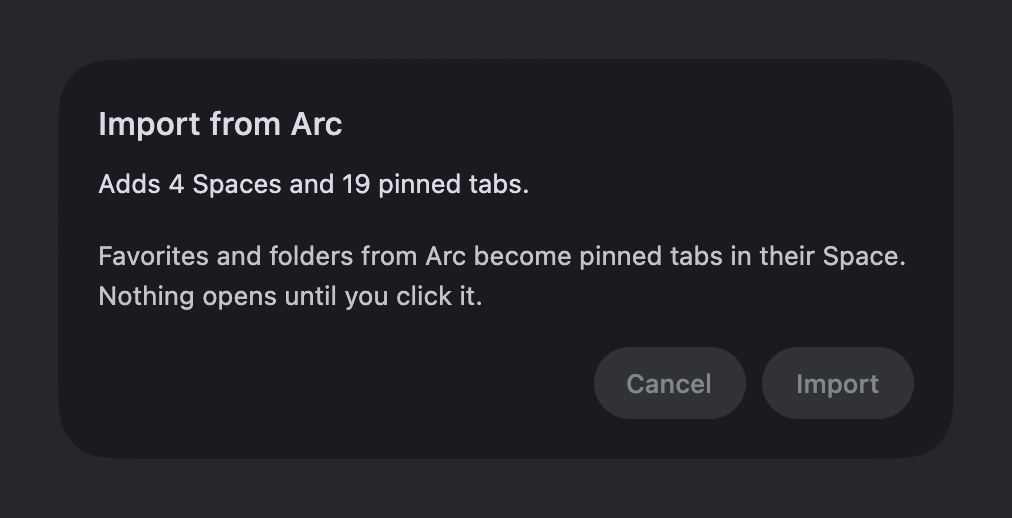
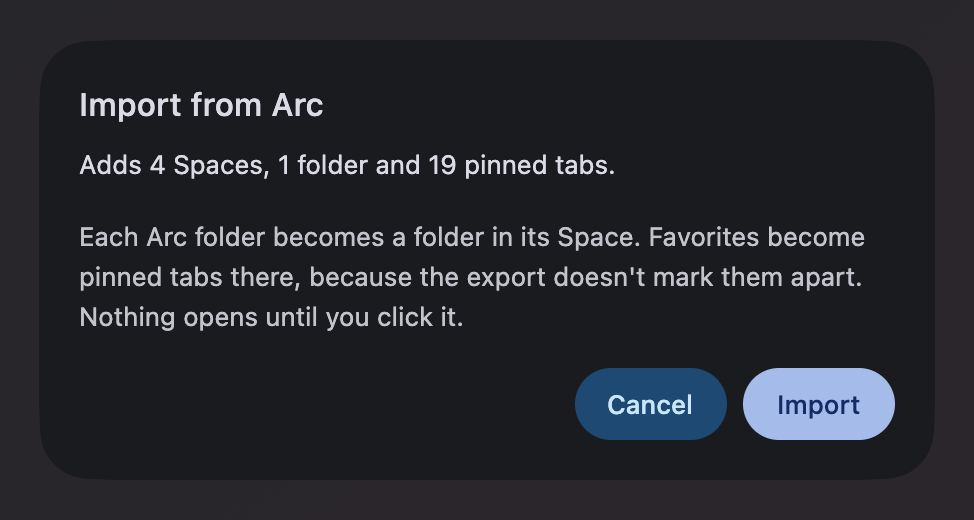
Say Arc folders come over, in the agents post, homepage and download page

Changed region(s): [[0.0616, 0.4324, 0.8932, 0.6486], [0.0616, 0.1853, 0.6468, 0.3707], [0.5852, 0.6795, 0.924, 0.8649]]

diff --git a/site/index.template.html b/site/index.template.html
@@ -501,7 +501,7 @@
           </li>
           <li>
             <h3>Next, for alpha</h3>
-            <p>Split view, Little Arc, Arc folders, ad and tracker blocking on by default, and onboarding.</p>
+            <p>Split view, Little Arc, ad and tracker blocking on by default, and onboarding.</p>
           </li>
           <li>
             <h3>After alpha</h3>
@@ -560,9 +560,9 @@
       <li>Command bar <kbd>Cmd+L</kbd> and Arc's shortcuts</li>
       <li>Hide the sidebar with <kbd>Cmd+S</kbd>, peek it from the window edge</li>
       <li>AI agents browse in their own Agent Space, after you allow them</li>
-      <li>Import Spaces and pinned tabs from an Arc export</li>
+      <li>Import Spaces, folders and pinned tabs from an Arc export</li>
     </ul>
-    <p class="works-later">Not yet: split view, Little Arc, Arc folders, ad blocking.</p>
+    <p class="works-later">Not yet: split view, Little Arc, ad blocking.</p>
     <div class="works-actions"><!--works-download--><a href="https://github.com/bitbonsai/myarc#try-it">Full list on GitHub →</a></div>
   </dialog>
   <dialog id="alpha-checklist" class="works alpha" aria-labelledby="alpha-title">

diff --git a/site/download.py b/site/download.py
@@ -25,12 +25,13 @@ WORKS = [
     'Shortcuts: Cmd+S hides the sidebar, Cmd+Shift+T reopens a closed tab, Cmd+Shift+C copies the address and shows a Copied Current URL toast, Cmd+Shift+N opens a private window and Ctrl+Cmd+N a blank one.',
     'Cmd+, opens a native Settings window. General shows the default-browser banner and Advanced links to the full Chromium settings. Profiles, Links and Shortcuts are not available yet.',
     'Quitting with Cmd+Q needs no confirmation by default, with a setting to turn the warning on.',
-    'Importing an Arc export from Settings > Advanced > Import from Arc. A preview shows what it will add, then each Space arrives with its links as pinned tabs, in Arc\'s order. Importing the same file again adds nothing.',
+    'Importing an Arc export from Settings > Advanced > Import from Arc. A preview shows what it will add, then each Space arrives with its folders and pinned tabs, in Arc\'s order. Importing the same file again adds nothing.',
+    'Folders for a Space\'s pinned tabs. Create, rename and delete them from the right-click menu, and open or close them. Moving a tab into a folder is menu-only for now.',
     'Agents can drive tabs in the Agent Space through the bundled myarc CLI and MCP server. It is off by default. Turn it on in Settings > Advanced, and myArc asks before each new agent connects.',
 ]
 MISSING = [
-    'Arc folders and Favorites in an import. The export does not mark them, so they arrive as pinned tabs.',
-    'Cmd+D to pin a tab (Cmd+D still bookmarks), folders, Auto Archive, the Archive and drag-to-pin.',
+    'Arc Favorites in an import. The export does not mark them, so they arrive as pinned tabs.',
+    'Cmd+D to pin a tab (Cmd+D still bookmarks), nested folders, Auto Archive, the Archive and drag-to-pin.',
     'Peek, Split View and Little Arc. The Peek routing rule exists, but there is no overlay.',
     'Boosts, the Library, download progress in the sidebar and the Mini Player.',
     'The animated onboarding.',

diff --git a/site/posts/agents-use-myarc/index.md b/site/posts/agents-use-myarc/index.md
@@ -65,13 +65,13 @@ Now a pin without an icon asks its own site for one in the background and keeps 
 
 That import is the part I've been waiting for. I've used Arc since 2023, and I'd rather not rebuild those Spaces by hand.
 
-Arc can export your Spaces to a file, under `Settings > Advanced > Export Data`. In myArc, `Settings > Advanced > Import from Arc…` reads that file and shows what it will add before it writes anything, along with the line number of anything it couldn't read. Each Space comes over with its links as pinned tabs, in Arc's order. Import the same file twice and the second time adds nothing.
+Arc can export your Spaces to a file, under `Settings > Advanced > Export Data`. In myArc, `Settings > Advanced > Import from Arc…` reads that file and shows what it will add before it writes anything, along with the line number of anything it couldn't read. Each Space comes over with its folders and pinned tabs, in Arc's order. Import the same file twice and the second time adds nothing.
 
-![A dialog titled Import from Arc that reads "Adds 4 Spaces and 19 pinned tabs", with a note that Favorites and folders become pinned tabs and nothing opens until you click it, and Cancel and Import buttons][import]
+![A dialog titled Import from Arc that reads "Adds 4 Spaces, 1 folder and 19 pinned tabs", with a note that each Arc folder becomes a folder in its Space, Favorites become pinned tabs and nothing opens until you click it, and Cancel and Import buttons][import]
 
 *The preview from a test export. Cancel leaves your Spaces as they were.*
 
-Some of Arc doesn't make it across yet. The export doesn't say which links are Favorites, so they land as pinned tabs in each Space. Folders get flattened too, because myArc has no folders of its own.
+One thing doesn't make it across yet. The export doesn't say which links are Favorites, so they land as pinned tabs in each Space.
 
 The agents that build myArc don't need a separate Chrome anymore. They browse in a Space next to mine, inside the browser they're building. All of this is in the nightly, if you'd like to give your own agent a Space too.
 
